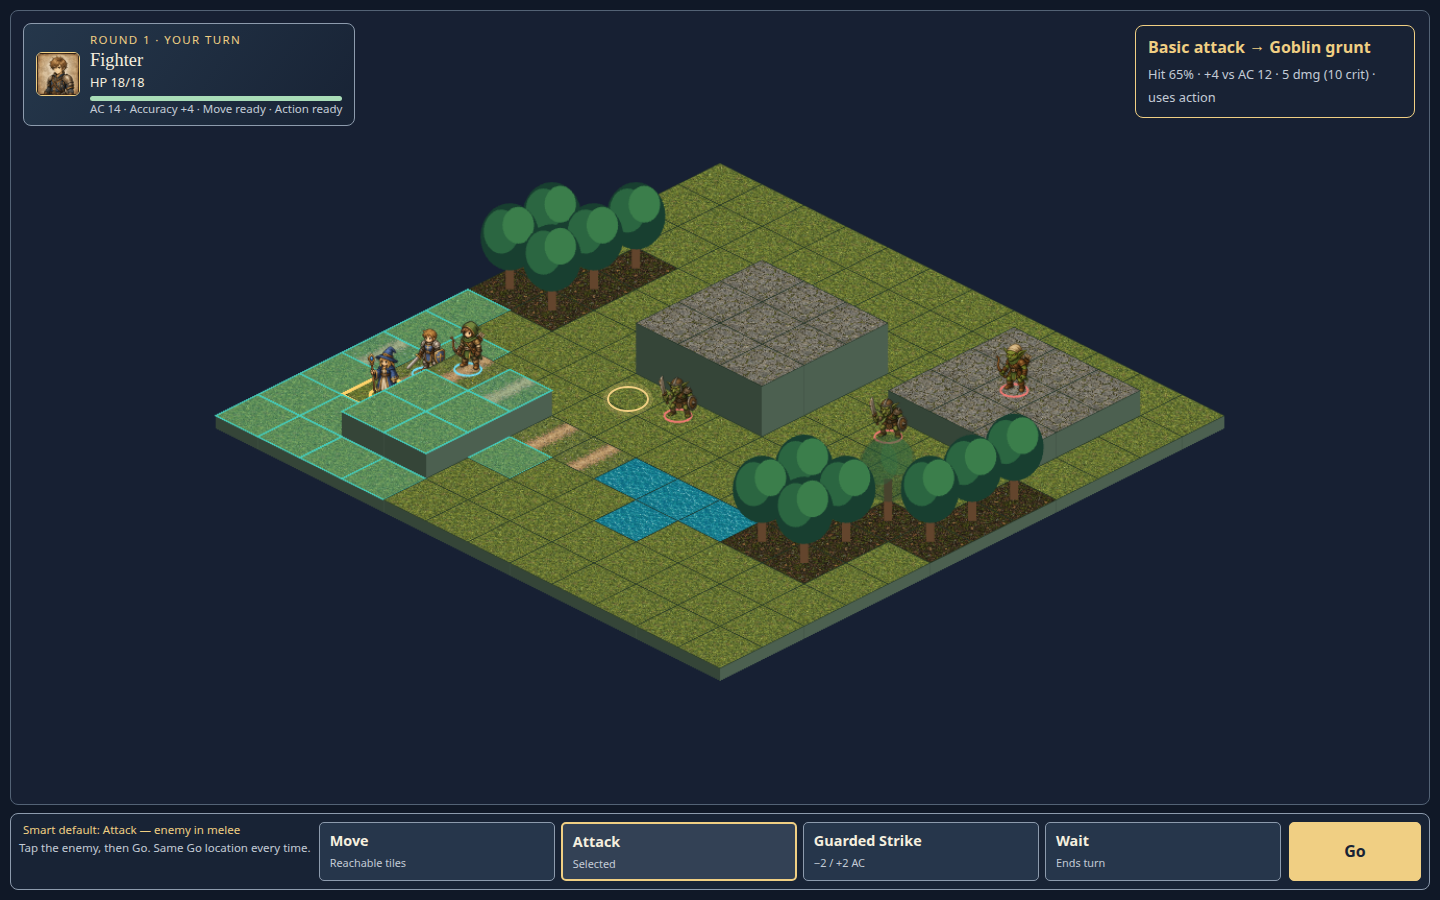
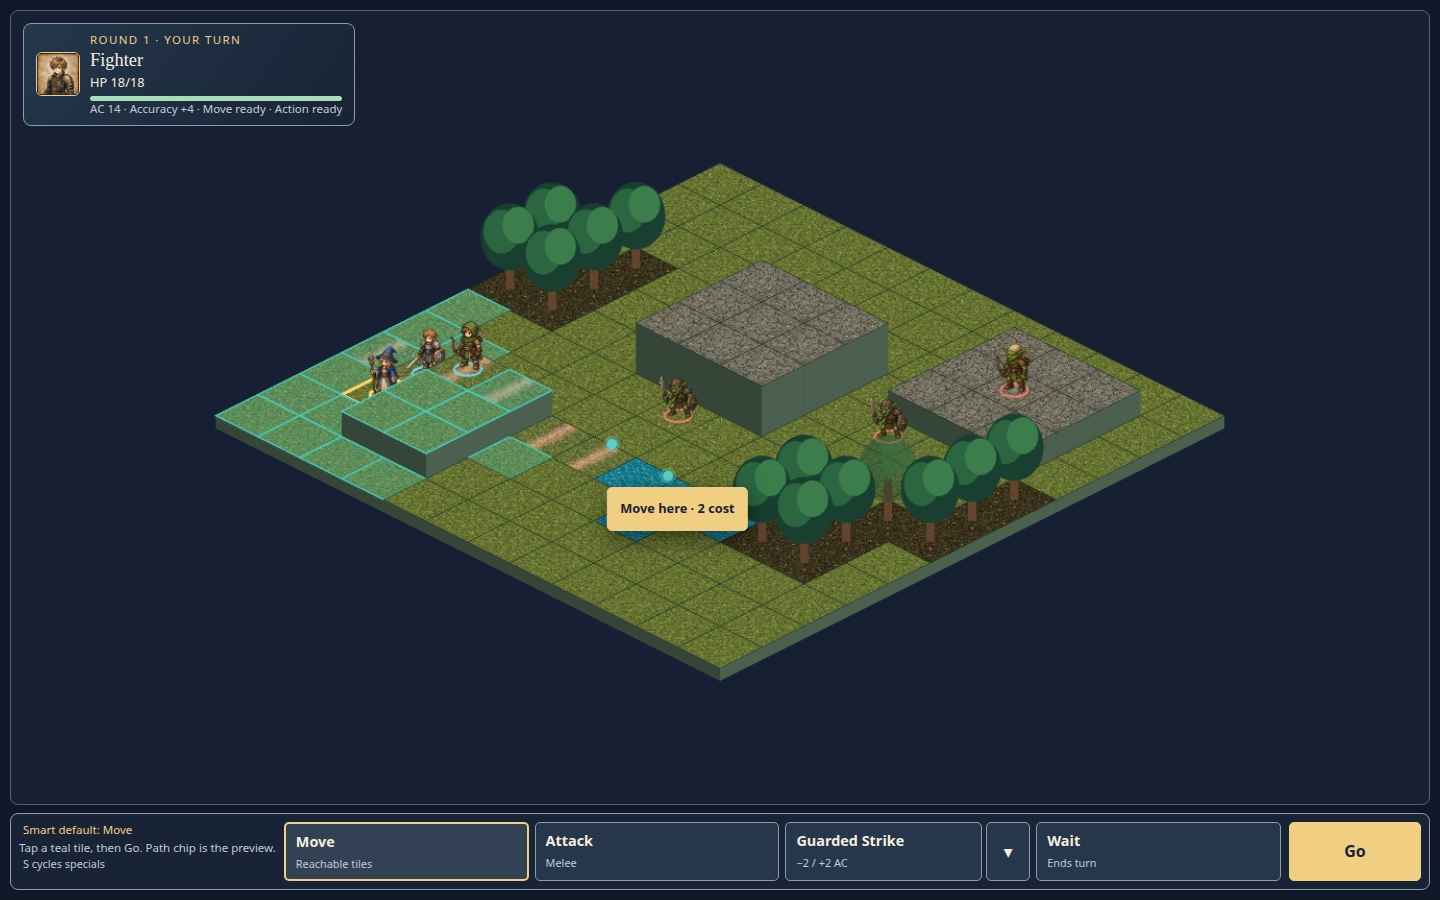
docs: Option B special picker for multiple abilities
Show last-used special on the action bar. A 44px chevron opens a compact
picker only when the unit owns two or more non-basic abilities. Default
special stays two steps; switching adds one. No Ability dropdown.

diff --git a/mockups/combat-ui/option-b.html b/mockups/combat-ui/option-b.html
@@ -10,10 +10,15 @@
   <header class="reviewer">
     <div>
       <h1>Option B · Persistent bar + smart defaults</h1>
-      <small>Recommended. One gold Go control. Move or Attack preselected from context.</small>
+      <small>Chosen design. Path chip for move. Special slot splits only when the unit owns 2+ non-basic abilities.</small>
     </div>
+    <nav>
+      <a href="option-b.html?state=move">Move chip</a>
+      · <a href="option-b.html?state=picker">Picker open</a>
+      · <a href="option-b.html?state=single">One special</a>
+    </nav>
     <a href="index.html">All options</a>
-    <a href="option-b.html?export=1">Export view</a>
+    <a id="export-link" href="option-b.html?state=move&amp;export=1">Export view</a>
   </header>
   <main class="stage b-stage">
     <section class="board-photo b-board" aria-label="Battlefield">
@@ -28,26 +33,88 @@
           <p class="meta">AC 14 · Accuracy +4 · Move ready · Action ready</p>
         </div>
       </div>
-      <div class="target-ring" aria-hidden="true"></div>
-      <aside class="forecast">
-        <strong>Basic attack → Goblin grunt</strong>
-        <span>Hit 65% · +4 vs AC 12 · 5 dmg (10 crit) · uses action</span>
-      </aside>
+      <div class="move-preview">
+        <span class="path-dot" style="left:42%;top:54%"></span>
+        <span class="path-dot" style="left:46%;top:58%"></span>
+        <button class="gold move-chip">Move here · 2 cost</button>
+      </div>
+      <div class="attack-preview">
+        <div class="target-ring" aria-hidden="true"></div>
+        <aside class="forecast">
+          <strong>Guarded Strike → Goblin grunt</strong>
+          <span>Hit 55% · +2 vs AC 12 · 5 dmg (10 crit) · −2 / +2 AC</span>
+        </aside>
+      </div>
     </section>
     <footer class="bar" aria-label="Combat actions">
       <div>
-        <p class="smart">Smart default: Attack — enemy in melee</p>
-        <p class="meta">Tap the enemy, then Go. Same Go location every time.</p>
+        <p class="smart" id="smart-line">Smart default: Move</p>
+        <p class="meta" id="help-line">Tap a teal tile, then Go. Path chip is the preview.</p>
+        <p class="hotkey" id="hotkey-line">S cycles specials</p>
       </div>
       <div class="verbs">
-        <button><strong>Move</strong><span>Reachable tiles</span></button>
-        <button aria-pressed="true"><strong>Attack</strong><span>Selected</span></button>
-        <button><strong>Guarded Strike</strong><span>−2 / +2 AC</span></button>
-        <button><strong>Wait</strong><span>Ends turn</span></button>
+        <button type="button" id="verb-move"><strong>Move</strong><span>Reachable tiles</span></button>
+        <button type="button" id="verb-attack"><strong>Attack</strong><span>Melee</span></button>
+        <div class="special" id="special">
+          <button type="button" class="special-main" id="special-main">
+            <strong id="special-name">Guarded Strike</strong>
+            <span id="special-hint">−2 / +2 AC</span>
+          </button>
+          <button type="button" class="special-more" id="special-more" aria-expanded="false" aria-controls="special-picker" aria-label="Choose another special">▾</button>
+        </div>
+        <button type="button" id="verb-wait"><strong>Wait</strong><span>Ends turn</span></button>
       </div>
       <button class="gold go">Go</button>
+      <div class="special-picker" id="special-picker" hidden role="listbox" aria-label="Specials">
+        <p>S cycles specials · greyed rows keep a readable reason</p>
+        <button type="button" role="option" aria-selected="true">
+          <strong>Guarded Strike</strong>
+          <span>Ready · range 1 · −2 attack / +2 AC</span>
+        </button>
+        <button type="button" role="option" aria-selected="false">
+          <strong>Extended Strike</strong>
+          <span>Ready · range 1–5 · fixture extra</span>
+        </button>
+        <button type="button" role="option" disabled>
+          <strong>Far Shot</strong>
+          <span class="picker-reason">No target in range</span>
+        </button>
+      </div>
     </footer>
   </main>
   <script src="export.js"></script>
+  <script>
+    const state = new URLSearchParams(location.search).get('state') || 'move';
+    const exportLink = document.getElementById('export-link');
+    exportLink.href = 'option-b.html?state=' + encodeURIComponent(state) + '&export=1';
+    const special = document.getElementById('special');
+    const more = document.getElementById('special-more');
+    const picker = document.getElementById('special-picker');
+    const moveBtn = document.getElementById('verb-move');
+    const attackBtn = document.getElementById('verb-attack');
+    const specialMain = document.getElementById('special-main');
+    document.querySelector('.move-preview').hidden = state === 'picker' || state === 'single';
+    document.querySelector('.attack-preview').hidden = state !== 'picker';
+    if (state === 'single') {
+      special.classList.add('single');
+      more.hidden = true;
+      picker.hidden = true;
+      moveBtn.setAttribute('aria-pressed', 'true');
+      document.getElementById('smart-line').textContent = 'Production Fighter: one special';
+      document.getElementById('help-line').textContent = 'No chevron. Guarded Strike is the only owned non-basic ability.';
+      document.getElementById('hotkey-line').hidden = true;
+    } else if (state === 'picker') {
+      more.hidden = false;
+      picker.hidden = false;
+      more.setAttribute('aria-expanded', 'true');
+      specialMain.setAttribute('aria-pressed', 'true');
+      document.getElementById('smart-line').textContent = 'Special selected · picker open';
+      document.getElementById('help-line').textContent = 'Tap the shown special (2 steps) or ▾ then another special (+1).';
+    } else {
+      more.hidden = false;
+      picker.hidden = true;
+      moveBtn.setAttribute('aria-pressed', 'true');
+    }
+  </script>
 </body>
 </html>

diff --git a/mockups/combat-ui/index.html b/mockups/combat-ui/index.html
@@ -15,7 +15,7 @@
     <div class="cards">
       <a class="card" href="current.html"><strong>Current UI</strong> Recreation of the live rail/dock. Move 3 taps · Attack 4 · Wait 1.</a>
       <a class="card" href="option-a.html"><strong>A · Board + wheel</strong> Direct manipulation. Confirm on the tile. Move 2 · Attack 2.</a>
-      <a class="card" href="option-b.html"><strong>B · Bar + defaults</strong> Recommended. Persistent Go. Move 1–2 · Attack 1–2.</a>
+      <a class="card" href="option-b.html"><strong>B · Bar + defaults</strong> Chosen. Persistent Go. Special chevron only when 2+ abilities. Move 1–2 · Attack 1–2 · special 2, +1 to switch.</a>
       <a class="card" href="option-c.html"><strong>C · Radial hold</strong> Hold/release gestures. Move 1 · Attack 1. Harder to discover.</a>
     </div>
 
@@ -33,12 +33,13 @@
       <tbody>
         <tr><td>Move (default already selected)</td><td class="num">3</td><td class="num">2</td><td class="num">1–2</td><td class="num">1</td></tr>
         <tr><td>Basic attack</td><td class="num">4</td><td class="num">2</td><td class="num">1–2</td><td class="num">1</td></tr>
-        <tr><td>Signature ability</td><td class="num">4</td><td class="num">2–3</td><td class="num">2</td><td class="num">2</td></tr>
+        <tr><td>Signature / shown special</td><td class="num">4</td><td class="num">2–3</td><td class="num">2</td><td class="num">2</td></tr>
+        <tr><td>Switch to another special</td><td class="num">+1*</td><td class="num">—</td><td class="num">+1</td><td class="num">—</td></tr>
         <tr><td>Wait / End turn</td><td class="num">1</td><td class="num">1</td><td class="num">1</td><td class="num">1</td></tr>
         <tr><td>Use item in combat</td><td class="num">n/a</td><td class="num">n/a</td><td class="num">n/a</td><td class="num">n/a</td></tr>
       </tbody>
     </table>
-    <p class="muted" style="margin-top:8px">Today’s Move is auto-selected at turn start (#145). Count is still destination → Review → Confirm. Attacks add the verb tap. Wait already skips the dialog. Items are blocked during battle.</p>
+    <p class="muted" style="margin-top:8px">Today’s Move is auto-selected at turn start (#145). Count is still destination → Review → Confirm. Attacks add the verb tap. Wait already skips the dialog. Items are blocked during battle. *Today’s extra special is a second use of the Ability dropdown, then Signature — still Review + Confirm. Option B: ▾ then pick replaces that dropdown.</p>
 
     <h2>What is redundant today</h2>
     <ul class="pain">
@@ -54,8 +55,8 @@
 
     <h2>Recommendation</h2>
     <div class="rec">
-      <p><strong>Ship Option B</strong> (persistent action bar, smart Move/Attack default, one gold Go). It is the fewest taps that still matches the battle-controls spec: legal preview, then one explicit confirm, cancel without spending. Go never moves. The bar stays ≥44px. Overflow holds inspect, log, sound, and restart.</p>
-      <p style="margin-top:10px">Borrow Option A’s on-tile path chip for movement preview. Treat Option C’s hold-to-inspect as a later mobile extra — do not make hold the only way to act (it fights pan/zoom and has no hover equivalent).</p>
+      <p><strong>Owner picked Option B.</strong> Persistent action bar, smart Move/Attack default, one gold Go, Option A’s on-tile path chip for move preview. The special slot shows the last-used (or only) non-basic ability. A 44px ▾ appears only when the unit owns two or more specials; tapping it opens a compact picker. Default special stays 2 steps; switching adds at most 1. Keyboard: <kbd>S</kbd> cycles specials. No Ability dropdown.</p>
+      <p style="margin-top:10px">Treat Option C’s hold-to-inspect as a later mobile extra — do not make hold the only way to act (it fights pan/zoom and has no hover equivalent).</p>
     </div>
 
     <h2>Open each layout</h2>
@@ -63,7 +64,7 @@
     <ul>
       <li><a href="current.html">current.html</a> · <a href="current.html?export=1">export</a></li>
       <li><a href="option-a.html">option-a.html</a> · <a href="option-a.html?export=1">export</a></li>
-      <li><a href="option-b.html">option-b.html</a> · <a href="option-b.html?export=1">export</a></li>
+      <li><a href="option-b.html">option-b.html</a> · <a href="option-b.html?state=move&amp;export=1">move export</a> · <a href="option-b.html?state=picker&amp;export=1">picker export</a> · <a href="option-b.html?state=single">one special</a></li>
       <li><a href="option-c.html">option-c.html</a> · <a href="option-c.html?export=1">export</a></li>
     </ul>
     <p class="muted">Read <a href="README.md">README.md</a> for the full step table, removed elements, and how these sketches sit next to #108/#111.</p>

diff --git a/mockups/combat-ui/styles.css b/mockups/combat-ui/styles.css
@@ -207,20 +207,51 @@ ul.pain li { margin: 6px 0; }
 .bar {
   display: grid; grid-template-columns: auto minmax(0, 1fr) auto; gap: 8px; align-items: stretch;
   background: var(--panel); border: 1px solid var(--edge); border-radius: 8px; padding: 8px;
+  position: relative;
 }
-.verbs { display: grid; grid-template-columns: repeat(4, minmax(0, 1fr)); gap: 6px; }
-.verbs button { display: flex; flex-direction: column; align-items: flex-start; min-height: 56px; padding: 8px 10px; }
-.verbs strong { font-size: .9rem; }
-.verbs span { font-size: .68rem; color: var(--muted); margin-top: 4px; }
+.verbs { display: grid; grid-template-columns: repeat(4, minmax(0, 1fr)); gap: 6px; align-items: stretch; }
+.verbs > button, .special-main {
+  display: flex; flex-direction: column; align-items: flex-start; text-align: left;
+  min-height: 56px; padding: 8px 10px;
+}
+.verbs strong, .special-main strong { font-size: .9rem; }
+.verbs span, .special-main span { font-size: .68rem; color: var(--muted); margin-top: 4px; }
 .go { min-width: 132px; font-size: 1rem; }
 .smart { font-size: .72rem; color: var(--gold); padding: 0 4px 2px; }
+.hotkey { font-size: .68rem; color: var(--muted); padding: 0 4px; }
+
+.special { display: grid; grid-template-columns: minmax(0, 1fr) 44px; gap: 4px; position: relative; min-width: 0; }
+.special.single { grid-template-columns: minmax(0, 1fr); }
+.special-more {
+  min-width: 44px; min-height: 44px; height: 100%; padding: 0; font-size: 1.1rem; line-height: 1;
+}
+.special-more[aria-expanded="true"] { border-color: var(--gold); background: var(--pressed); }
+.special-picker {
+  position: absolute; right: 8px; bottom: calc(100% + 6px); width: 320px; max-width: min(320px, 92vw);
+  background: #101827f7; border: 1px solid var(--gold); border-radius: 8px; padding: 6px;
+  z-index: 6; box-shadow: 0 12px 40px #000a;
+}
+.special-picker p { font-size: .68rem; color: var(--muted); padding: 4px 8px 8px; }
+.special-picker button {
+  width: 100%; min-height: 44px; display: flex; flex-direction: column; align-items: flex-start;
+  text-align: left; padding: 8px 10px; margin: 0 0 4px;
+}
+.special-picker button:last-of-type { margin-bottom: 0; }
+.special-picker button[aria-selected="true"] { border-color: var(--gold); background: var(--pressed); }
+.special-picker button:disabled { color: var(--muted); opacity: 0.72; background: var(--panel); }
+.special-picker button:disabled strong { color: var(--warning); }
+.picker-reason { color: var(--warning) !important; }
 
 @media (max-width: 759px) {
   .b-stage { padding: 8px; }
   .bar { grid-template-columns: 1fr; }
   .go { width: 100%; min-height: 48px; }
-  .verbs button { min-height: 52px; padding: 7px 8px; }
+  .verbs { grid-template-columns: 1fr 1fr; }
+  .verbs > button, .special-main { min-height: 52px; padding: 7px 8px; }
+  .special { grid-column: 1; }
+  .special-picker { left: 8px; right: 8px; width: auto; max-width: none; }
   .forecast { left: 12px; right: 12px; top: auto; bottom: 12px; max-width: none; }
+  .b-stage:has(#special-picker:not([hidden])) .forecast { top: 92px; bottom: auto; }
   .float-chip { max-width: calc(100% - 24px); }
 }
 

diff --git a/mockups/combat-ui/README.md b/mockups/combat-ui/README.md
@@ -89,28 +89,62 @@ duplicate selection copy.
 Desktop: wheel on the acting unit; chips on the board. Mobile: same, board
 keeps most of the 390×844 viewport; End turn is a full-width 44px control.
 
-### B — Persistent action bar + smart defaults (recommended)
+### B — Persistent action bar + smart defaults (owner-chosen)
 
-A bottom (mobile) / board-bottom (desktop) bar always shows Move, Attack,
-named signature, Wait, and one gold **Go**. Smart default: **Move** if no enemy
+A bottom (mobile) / board-bottom (desktop) bar always shows Move, Attack, the
+**shown special**, Wait, and one gold **Go**. Smart default: **Move** if no enemy
 is in the current verb’s range; **Attack** when an enemy is in melee (or the
-selected verb’s range) after a move. Hover/press on a target fills an on-board
-forecast. Go commits the previewed command. Go never changes location.
+selected verb’s range) after a move. Movement preview is Option A’s on-tile
+**Move here** chip, not a dropdown. Hover/press on a target fills an on-board
+forecast. Go commits. Go never changes location.
 
-**Removes / merges:** rail/dock, both dropdowns, Review, Confirm modal, heading,
-caption, inspect as a primary control (⋯ overflow), duplicate preview copy.
-Actor header becomes a compact overlapping chip.
+#### Special slot (no Ability dropdown)
+
+`ownedAbilities()` lists every catalog ability the active unit owns except
+`ability:basic_attack`, sorted by ID (`src/ui/battleActions.ts`). Production
+content gives each hero **exactly one** special:
+
+| Unit | Non-basic abilities |
+| --- | --- |
+| Fighter | Guarded Strike |
+| Ranger | High Shot |
+| Mage | Magic Missile |
+| Goblin grunt | none |
+| Goblin archer | Shortbow Shot (its ordinary attack, not a hero signature) |
+
+The validator already allows extra well-formed IDs (#162). Test fixtures clone
+each hero’s signature as `ability:zz_{hero}` (range 1–5). There is **no
+cooldown, charge, or level-gate field**. Availability is:
+
+- **Owned** — catalog `owners`
+- **Shared action budget** — `hasActed` greys every special (`alreadyActed`)
+- **Phase** — enemy / presenting / ended locks the bar
+- **Per-target preview** — `outOfRange`, `blockedLos`, `sameSide`, …
+
+The slot shows the **last-used** special, or the first owned special on a new
+actor. Main tap selects that special (same as Attack). **If the unit owns only
+one special, there is no chevron, long-press, or picker.** If it owns two or
+more, a 44px **▾** (or long-press on the slot) opens a compact picker above the
+slot. Rows are ≥44px. Unavailable rows stay visible and greyed with the
+authoritative reason (today: Action spent, Enemy turn, No target in range, …
+never invented cooldown numbers). Choosing a row selects it and closes the
+picker. Keyboard: **`S`** cycles owned specials (wraps; Shift+S previous). That
+cycle does not need the picker.
 
 | Action | Today | B |
 | --- | ---: | ---: |
-| Move | 3 | **1–2** (tile; Go if you want a second deliberate tap) |
+| Move | 3 | **1–2** (tile + path chip; Go) |
 | Basic attack | 4 | **1–2** (0 verb taps when Attack is the smart default) |
-| Signature | 4 | **2** (verb, target+Go) |
+| Shown / last-used special | 4 | **2** (tap slot, target+Go) |
+| A different special | 5* | **3** (▾, pick, target+Go) — **+1** vs the shown special |
 | Wait | 1 | **1** |
 
-The 2-tap reading (select target, tap Go) still satisfies “preview then
-explicit confirmation.” A 1-tap variant (release on the target commits) is
-possible later for mouse-out cancel; do not skip preview.
+\*Today: open Ability `<select>`, pick, tap Signature, target, Review, Confirm.
+
+**Removes / merges:** rail/dock, Ability dropdown, target dropdown, Review,
+Confirm modal, heading, caption, inspect as a primary control, duplicate
+preview copy. The chevron is not a second selector when there is nothing to
+select.
 
 ### C — Radial / hold gestures
 
@@ -135,19 +169,15 @@ parity unless a non-gesture path remains.
 
 ## Recommendation
 
-**Implement Option B**, and steal A’s on-tile path chip for movement preview.
+**Owner picked Option B**, with A’s on-tile path chip and the split special slot
+above. Implement that. Do not restore the Ability `<select>`.
 
-- Fewest taps that stay discoverable and meet the existing preview/confirm
-  contract, 44px targets, and keyboard parity (arrows select, Enter = Go).
-- One confirm control, always in the same place — important on a 390px phone
-  where Review today lives below a scroll fold.
-- Smart defaults remove the extra verb tap in the two most common cases
-  (walk somewhere; hit the adjacent goblin).
-- Does not teach a new hold gesture on a camera that already pans on drag.
-
-Do not make C the only path. Hold-to-inspect can land later as an accelerator.
-Keep Wait at one tap. Keep items out of the combat bar until a real in-combat
-item command exists.
+- Default special stays 2 steps; another owned special is one extra tap on ▾
+  then the row (the pick also selects, so it replaces the slot tap).
+- Production heroes hide ▾. Multi-ability catalogs (#162 fixtures, later
+  class skills) get the picker without a new dropdown.
+- `S` cycles specials for keyboard (Shift+S previous). Enter still confirms via Go.
+- Greyed picker rows use real rejection copy, not placeholder cooldowns.
 
 Spec note: `openspec/specs/battle-controls/spec.md` currently requires Review
 then Confirm. Adopting B is a **spec change** from two confirms to one, not a
@@ -160,7 +190,7 @@ CSS restyle of the rail.
 | `index.html` | Comparison, links |
 | `current.html` | Shipped HUD recreation |
 | `option-a.html` | Board + wheel |
-| `option-b.html` | Action bar + Go |
+| `option-b.html` | Action bar + Go. `?state=move` (default), `picker`, `single` |
 | `option-c.html` | Radial hold |
 | `styles.css` | Shared tokens (game colors) |
 | `export.js` | `?export=1` hides reviewer chrome |
@@ -176,7 +206,8 @@ Captured with headless Chrome at device scale 1:
 
 - `previews/current-desktop.png` / `previews/current-mobile.png`
 - `previews/option-a-desktop.png` / `previews/option-a-mobile.png`
-- `previews/option-b-desktop.png` / `previews/option-b-mobile.png`
+- `previews/option-b-desktop.png` / `previews/option-b-mobile.png` (move chip + ▾)
+- `previews/option-b-picker-desktop.png` / `previews/option-b-picker-mobile.png`
 - `previews/option-c-desktop.png` / `previews/option-c-mobile.png`
 
 Live app (Vite, this checkout, Mage first in initiative):
